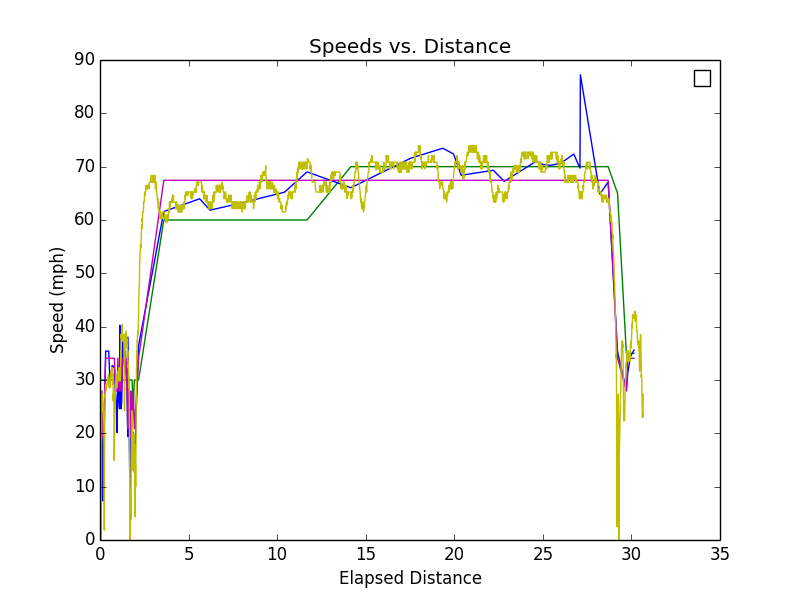
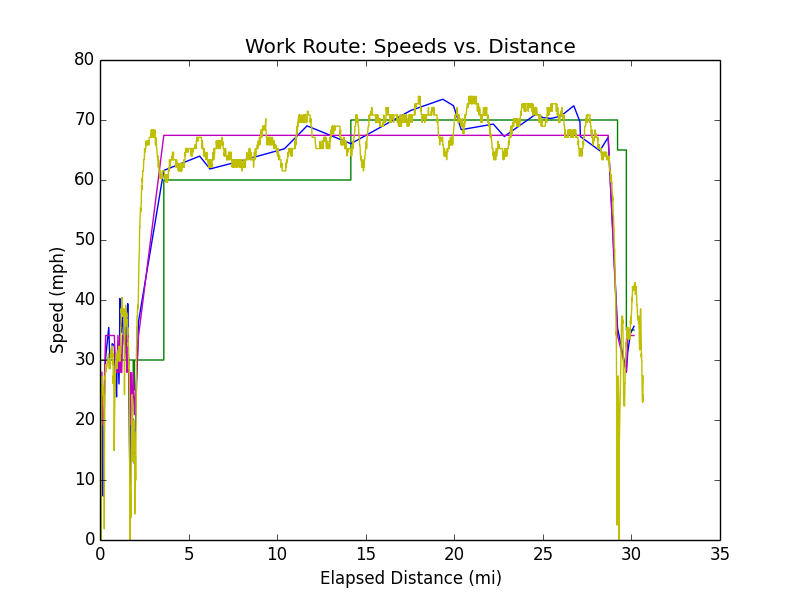
more plotting

diff --git a/SpeedPrediction/PlotSpeed.py b/SpeedPrediction/PlotSpeed.py
@@ -31,29 +31,39 @@ def plot_speeds_v_time(data):
 
 def plot_speeds_v_dist(data):
 	distances = []
+	limit_distances = []
 	speed_limits = []
 	waze_speeds = []
 	drive_speeds = []
 	predicted_speeds = []
+	node = 0
 
 	for i in range(1, len(data) + 1):
 		if (data[str(i)]["type"].strip() == "WAZE"):
 			distances.append(data[str(i)]["distance(mi)"])
+			limit_distances.append(data[str(i)]["distance(mi)"])
+			if node > 0:
+				print speed_limits[node - 1], data[str(i)]["speed_limit(mph)"]
+			if (node > 0 and speed_limits[node - 1] != data[str(i)]["speed_limit(mph)"]):
+				limit_distances.append(data[str(i)]["distance(mi)"] - 0.00001)
+				speed_limits.append(speed_limits[node - 1])
+				node = node + 1
 			speed_limits.append(data[str(i)]["speed_limit(mph)"])
 			drive_speeds.append(data[str(i)]["speed_act(mph)"])
 			waze_speeds.append(data[str(i)]["speed_waze(mph)"])
 			predicted_speeds.append(data[str(i)]["speed_predicted(mph)"])
+			node = node + 1
 			
 	plt.subplot(1, 1, 1)
-	plt.plot(distances, drive_speeds, color="r")
-	plt.plot(distances, speed_limits, color="g")
-	plt.plot(distances, waze_speeds, color="b")
-	plt.plot(distances, predicted_speeds, color="m")
+	#plt.plot(distances, drive_speeds, color="r")
+	lim, = plt.plot(limit_distances, speed_limits, color="g", label='Speed Limits')
+	p16, = plt.plot(distances, waze_speeds, color="b", label='Predicted Speed after 16 drives')
+	p1, = plt.plot(distances, predicted_speeds, color="m", label='Predicted Speed after 1 drive')
 
 	plt.ylabel('Speed (mph)')
 	plt.xlabel('Elapsed Distance (mi)')
 	plt.title("Work Route: Speeds vs. Distance")
-	#plt.legend([drive_speeds,speed_limits,waze_speeds,predicted_speeds],['Drive Speeds', 'Speed Limits', 'Traffic Speeds', 'Speed Predictions'])
+	#plt.legend(handles=[lim, p16, p1])
 
 def plot_actual_waze_error(data, raw_data):
 	waze_distances = []
@@ -128,6 +138,23 @@ def plot_raw_drive_speeds(raw_data):
 		drive_speeds.append(raw_data[i]["Speed (OBD)(mph)"])
 
 	plt.plot(distances, drive_speeds, color="y")
+
+def plot_elevation_v_time(data):
+	elevations = []
+	time = []
+	for i in range(1, len(data) + 1):
+		if (data[str(i)]["type"] == "RAW"):
+			for j in range(1, len(data) + 1):
+				if (data[str(j)]["type"] == "google"):
+					if (get_distance_between_coords(data[str(i)]["lat"], data[str(i)]["lon"], data[str(j)]["lat"], data[str(j)]["lon"]) < 0.005):
+						time.append(data[str(i)]["time(s)"])
+						elevations.append(data[str(j)]["ele"])
+						break
+
+	plt.subplot(1, 1, 1)
+	plt.plot(time, elevations)
+
+
 
 def add_raw_drive_points(data, raw_data):
 	node = len(data) + 1
@@ -209,14 +236,19 @@ def main():
 
 	with open("cda_drive.json") as data_file:
 		raw_data = json.load(data_file)
+
+	with open("cda_total_nodes_FINAL.json") as data_file:
+		new_data = json.load(data_file)
 	
+	plot_elevation_v_time(new_data)
 	#plot_speeds_v_time(data)
-	plot_speeds_v_dist(data)
-	plot_actual_waze_error(data, raw_data)
+	#plot_speeds_v_dist(data)
+	#plot_actual_waze_error(data, raw_data)
 	#plot_actual_v_waze(data)
-	plot_raw_drive_speeds(raw_data)
+	#plot_raw_drive_speeds(raw_data)
 	print len(data)
-	add_raw_drive_points(data, raw_data)
+	#add_raw_drive_points(data, raw_data)
+
 	plt.show()
 
 
